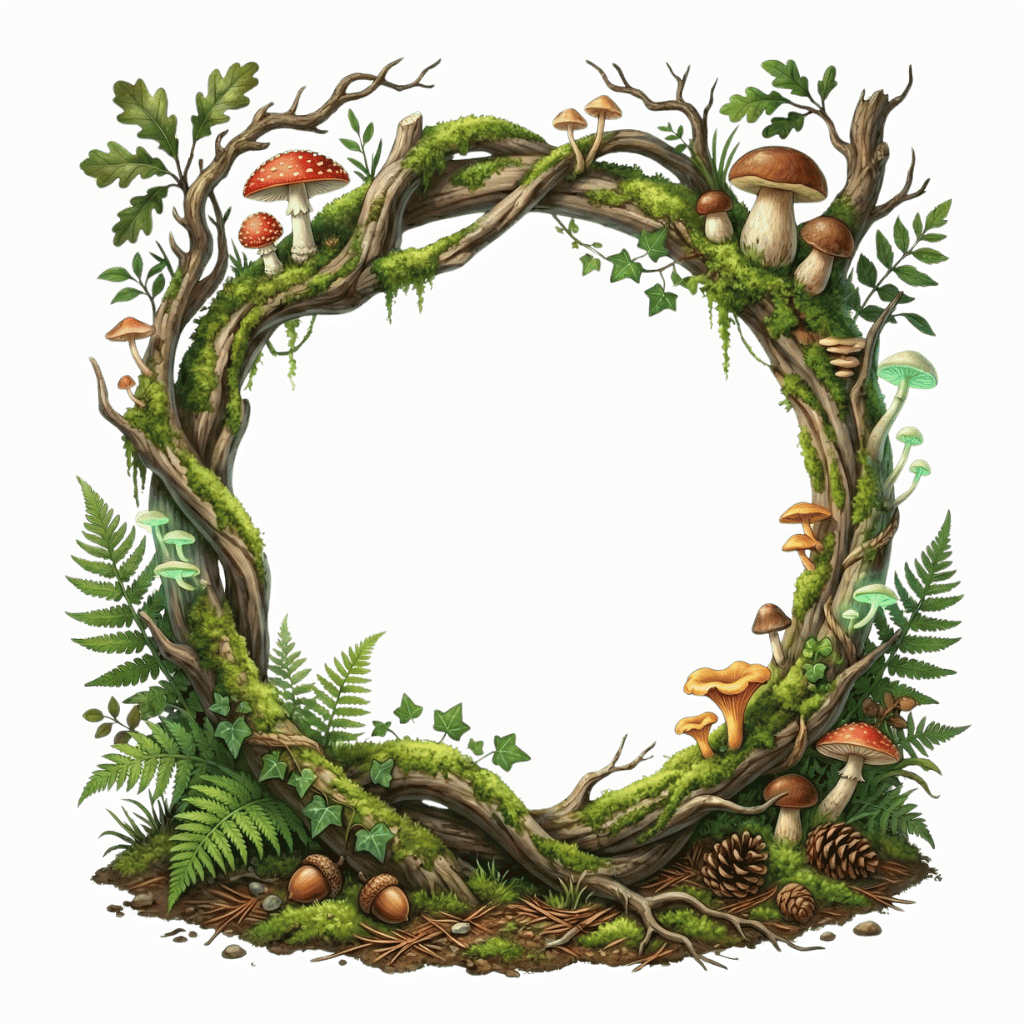
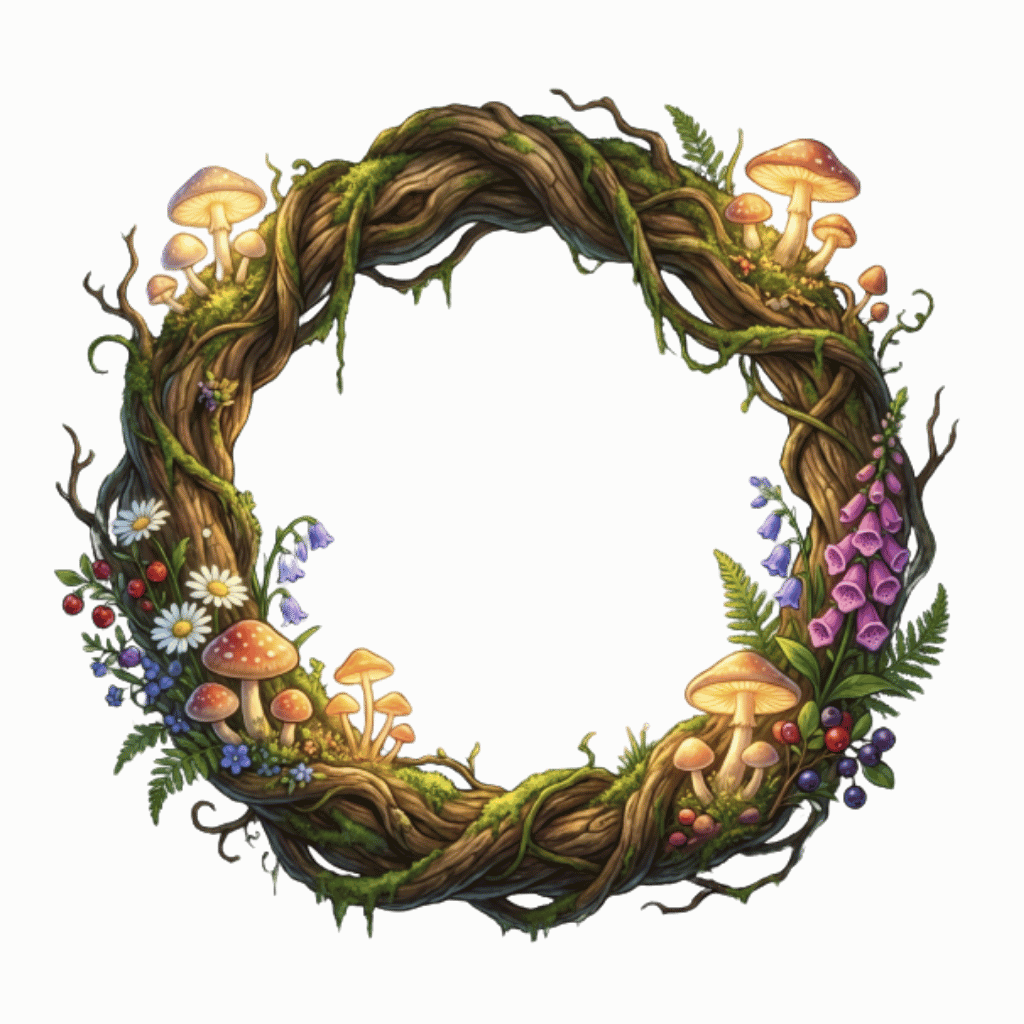
feat: Add four new frame cosmetics and update an existing frame's asset.

diff --git a/src/lib/cosmetics.ts b/src/lib/cosmetics.ts
@@ -425,7 +425,7 @@ export const getFrameStyle = (frameId?: string, size: number = 88): FrameStyle =
                     borderRadius: size / 2,
                     overflow: 'visible',
                 },
-                imageSource: require('../../assets/frames/frame_tropical.png'),
+                imageSource: require('../../assets/frames/frame_jungle_ruins.png'),
             };
         case 'frame_desert_oasis':
             return {

diff --git a/CHANGELOG.md b/CHANGELOG.md
@@ -5,6 +5,10 @@
 - **Nouveau Cosmétique** : Ajout du cadre **Tropical** (`frame_tropical`) avec ambiance vacances et cocotiers (Animé).
 - **Mise à jour Cosmétique** : V5 "Realistic Fire" pour le cadre **Flammes** (`frame_flames`) : Système de particules SVG procédurales (langues de feu), dégradés thermiques et animation de combustion chaotique.
 - **Nouveau Cosmétique** : Ajout du cadre **Mystic Mushroom** (`frame_nature_mystic`) avec ambiance forêt enchantée, spores lumineux flottants et effet de lueur magique (Animé).
+- **Nouveau Cosmétique** : Ajout du cadre **Bamboo Sanctuary** (`frame_bamboo_sanctuary`) - Zen et apaisant.
+- **Nouveau Cosmétique** : Ajout du cadre **Jungle Ruins** (`frame_jungle_ruins`) - Lianes et pierres anciennes.
+- **Nouveau Cosmétique** : Ajout du cadre **Crystal Cavern** (`frame_crystal_cavern`) - Cristaux violets brillants.
+- **Nouveau Cosmétique** : Ajout du cadre **Arctic Winter** (`frame_arctic_winter`) - Glace et givre éternel.
 - **Nouvelle Fonctionnalité** : **Calendrier Système Partagé** (`/calendar`) pour gérer les rendez-vous, le fronting et les événements communs. Accessible depuis le Menu Système. Inclus création, visualisation et suppression d'événements.
 - **Assets** : Intégration de l'asset `frame_tropical.png` dans le dossier assets.
 - **Code** : Mise à jour de `MonetizationTypes.ts` et `cosmetics.ts` pour supporter le nouveau cadre.
